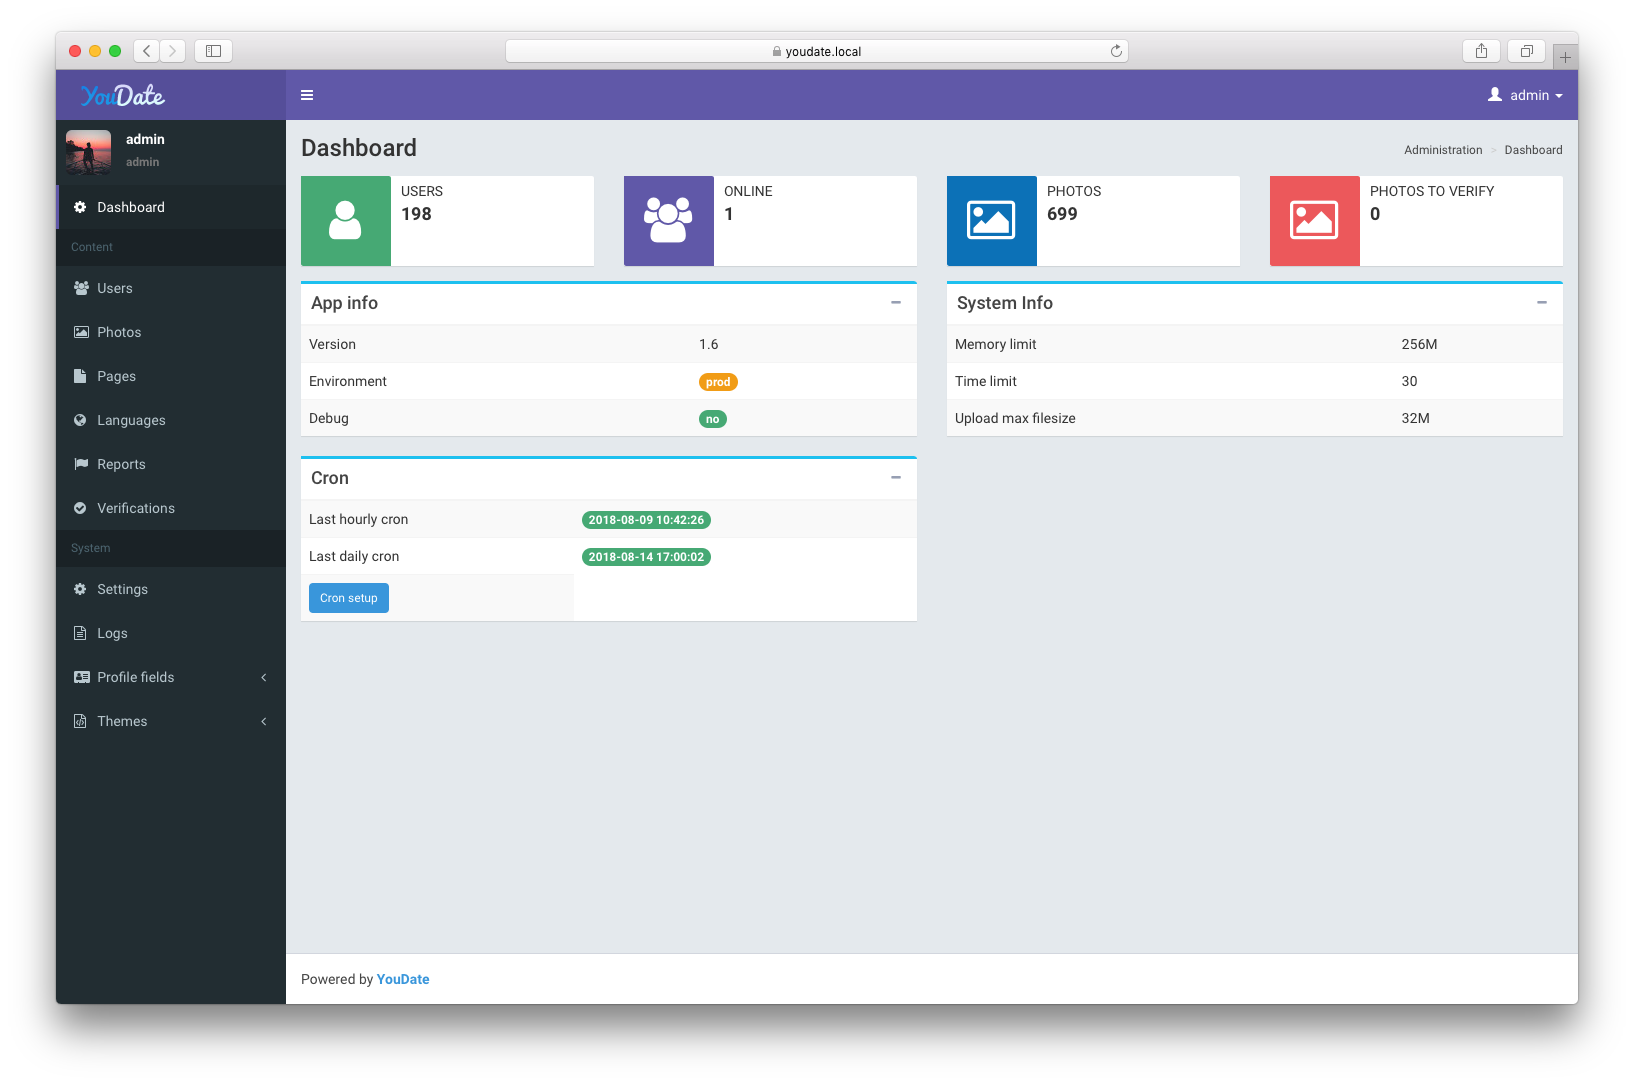
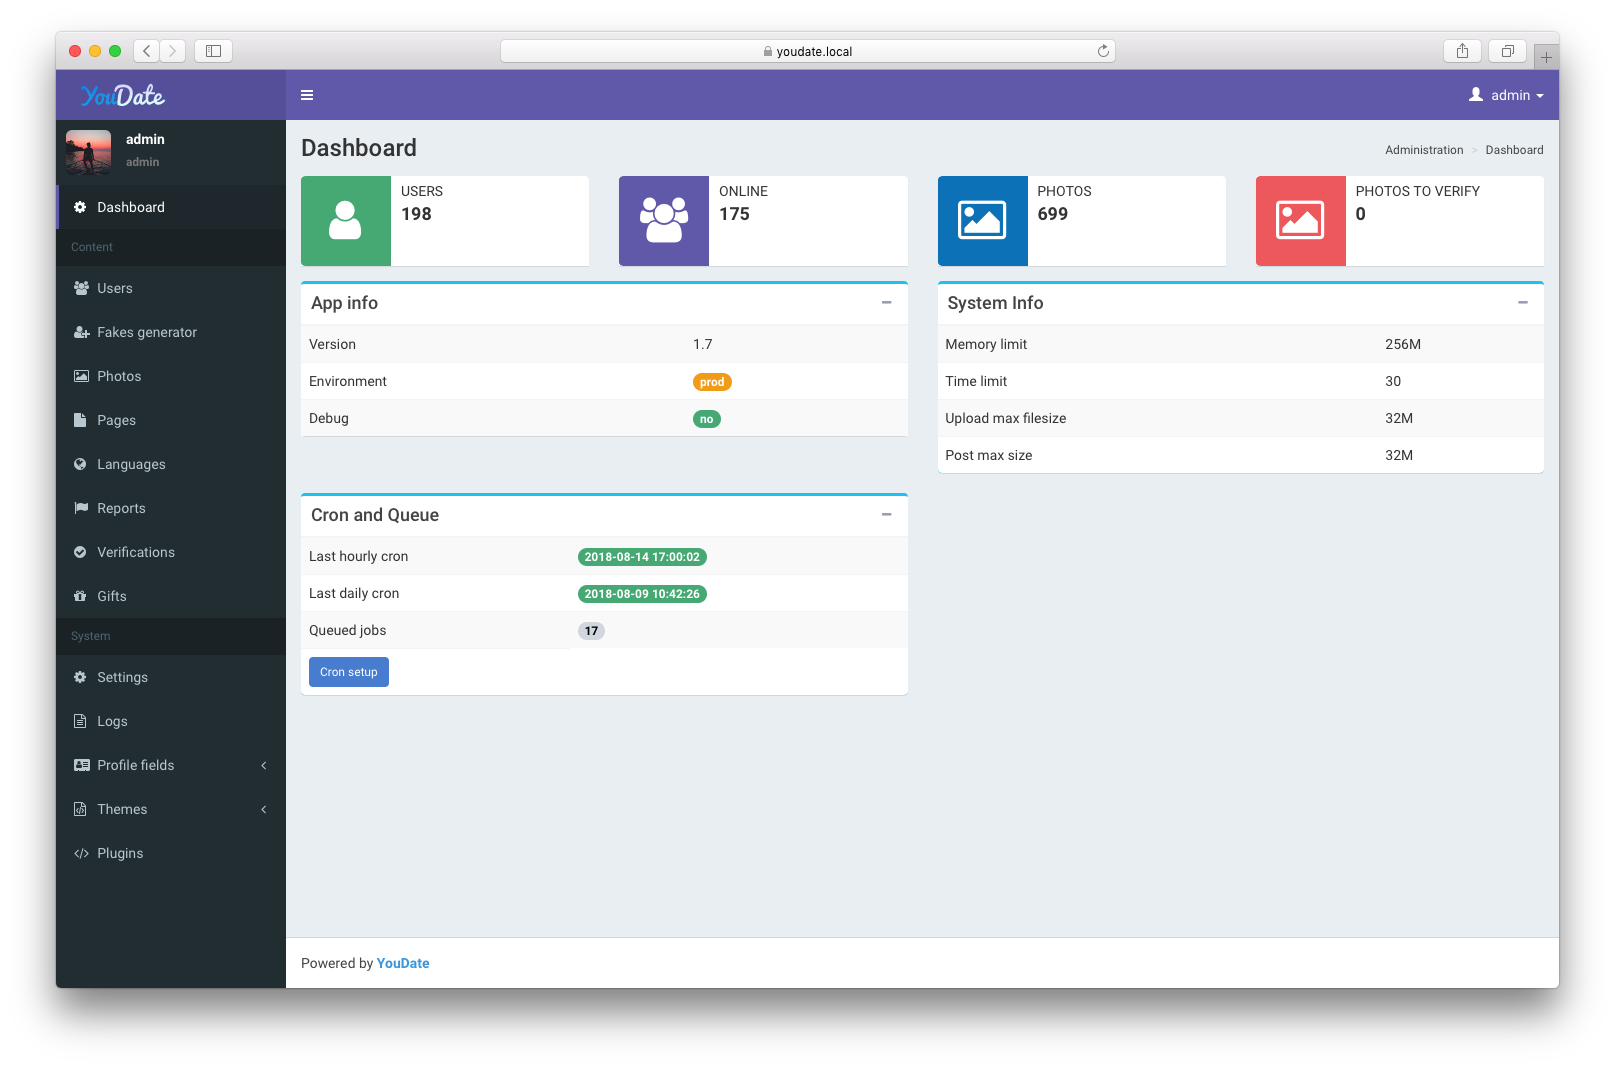
Pre 1.7 update

diff --git a/docs/files.md b/docs/files.md
@@ -1,6 +1,6 @@
 ### Files structure
 
-Script source files are in `Source/youdate-1.6.zip` file. The structure of the project is:
+Script source files are in `Source/youdate-1.7.zip` file. The structure of the project is:
 
 ``` sh
 .
@@ -8,8 +8,10 @@ Script source files are in `Source/youdate-1.6.zip` file. The structure of the p
 ├─ content/                            # All your content
 │  ├─ assets/                          # Compiled and cached assets (css/js)
 │  ├─ cache/                           # Cached photos and thumbnails
+│  ├─ gifts/                           # Gifts
 │  ├─ images/                          # Images
 │  ├─ pages/                           # Site pages
+│  ├─ params/                          # Site params and configs
 │  ├─ photos/                          # User photos
 │  └─ themes/                          # Themes
 |     └─ youdate/                      # Default theme
@@ -27,6 +29,6 @@ Script source files are in `Source/youdate-1.6.zip` file. The structure of the p
     
 ### Upload
 
-Upload all the files (including hidden files like `.env` or `.htaccess`) from the `Source/youdate-1.6.zip` archive to the root directory of your website location (often called as `public_html`).
+Upload all the files (including hidden files like `.env` or `.htaccess`) from the `Source/youdate-1.7.zip` archive to the root directory of your website location (often called as `public_html`).
 
 [![Files](./images/files.png)](./images/files.png)

diff --git a/docs/administration-gifts.md b/docs/administration-gifts.md
@@ -1,0 +1,46 @@
+### Overview
+
+Gifts feature is a way to attract the attention of users. They can be both free and paid, private or public.
+
+Admins are able to add more categories, hide ones, add/remove gifts items from categories and set prices.
+
+Typical gift is a graphical file (png or svg, 128x128 preferred), which are located in `content/gifts/%giftCategory%` directory.
+
+For example:
+
+``` sh
+.
+├─ content/
+│  └─ gifts/
+|     └─ christmass/
+|        └─ new-year-tree.png
+|        └─ santa.png
+|     └─ greetings/
+|        └─ hello.svg
+|        └─ heart.svg
+```
+
+### Adding more gifts
+
+You can add more gift categories/items in two ways:
+
+#### Scan directory
+
+Upload your gifts directory with png/svg files to `content/gifts` directory:
+
+[![Gifts Upload](./images/adminGiftsScan.png)](./images/adminGiftsScan.png)
+
+Then click **Scan** button and app will detect all new files and add to your collection:
+
+[![Gifts Scan](./images/adminGiftsScan2.png)](./images/adminGiftsScan2.png)
+
+#### Manual adding
+
+Create a new category:
+
+[![Gifts Manual](./images/adminGiftsManual.png)](./images/adminGiftsManual.png)
+
+Add files and click Upload button:
+
+[![Gifts Manual 2](./images/adminGiftsManual2.png)](./images/adminGiftsManual2.png)
+

diff --git a/docs/index.md b/docs/index.md
@@ -14,11 +14,13 @@ Core features and possibilities:
 * Photo moderation 
 * Connections: likes, mutual likes, guests 
 * Messaging 
+* Gifts (multiple categories support)
 * Premium features like raising up in search or incognito mode, prioritized messages 
 * Administration area 
 * Reports system 
 * Blocks system 
-* Responsive retina template 
+* Responsive retina template
+* Plugins system 
 * Theme customization (create your own theme or extend from existing one) 
 * Languages support: english (by default), spanish, italian, german, russian, french 
 * Language editor: add your own languages in admin area 

diff --git a/docs/https.md b/docs/https.md
@@ -21,5 +21,19 @@ Yet it's highly recommended to turn on redirection (http to https).
     Deny from all
 </FilesMatch>
 
+<IfModule mod_expires.c>
+  Header set cache-control: public
+  ExpiresActive on
+  ExpiresByType font/ttf      "access plus 1 month"
+  ExpiresByType font/woff     "access plus 1 month"
+  ExpiresByType image/svg+xml "access plus 1 month"
+</IfModule>
+
+<IfModule mod_deflate.c>
+  <FilesMatch "\.(ttf|otf|eot|svg)$" >
+    SetOutputFilter DEFLATE
+  </FilesMatch>
+</IfModule>
+
 Options All -Indexes
 ```

diff --git a/docs/administration-overview.md b/docs/administration-overview.md
@@ -53,6 +53,10 @@ Also, you have an option to reset pages (restore all page files from the current
 
 **Payment** settings includes currency options, Stripe and PayPal integration params (api keys/secrets).
 
+[![Payments Setup](./images/payments.png)](./images/payments.png)
+
+[![Payments Currencies](./images/payments2.png)](./images/payments2.png)
+
 **Prices** settings for premium, boost features and their duration.
 
 **Cached data** allows you to flush app's cached data and compiled assets.

diff --git a/docs/requirements.md b/docs/requirements.md
@@ -3,7 +3,7 @@
 To install YouDate script, you need:
 
 * Web-server: Apache 2.0 or higher
-* PHP 7.0 or higher
+* PHP **7.1** or higher
 * MySQL 5.5 or higher
 * PDO PHP extension (enabled by default)
 * Mbstring PHP Extension

diff --git a/docs/administration-plugins.md b/docs/administration-plugins.md
@@ -1,0 +1,4 @@
+### Plugins
+
+
+
